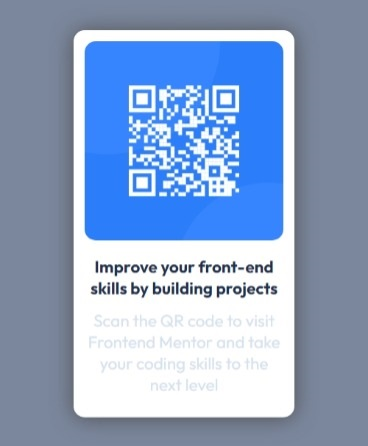
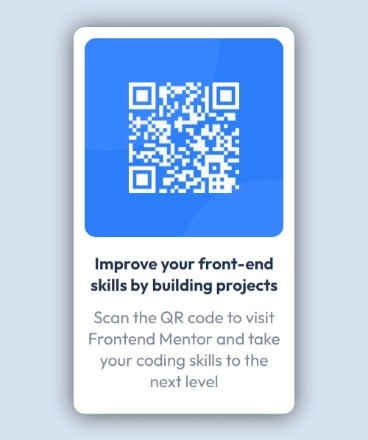
Add files via upload

diff --git a/css/qr-code.css b/css/qr-code.css
@@ -8,7 +8,7 @@
 
 body {
     height: 100vh;
-    background-color: hsl(220, 15%, 55%);
+    background-color: hsl(212, 45%, 89%);
     display: flex;
     justify-content: center;
     align-items: center;
@@ -46,7 +46,7 @@ img {
 .qrc-text p {
     font-size: 15px;
     padding-top: 10px;
-    color: hsl(212, 45%, 89%);
+    color: hsl(220, 15%, 55%);
     font-weight: 400;
 }
 
